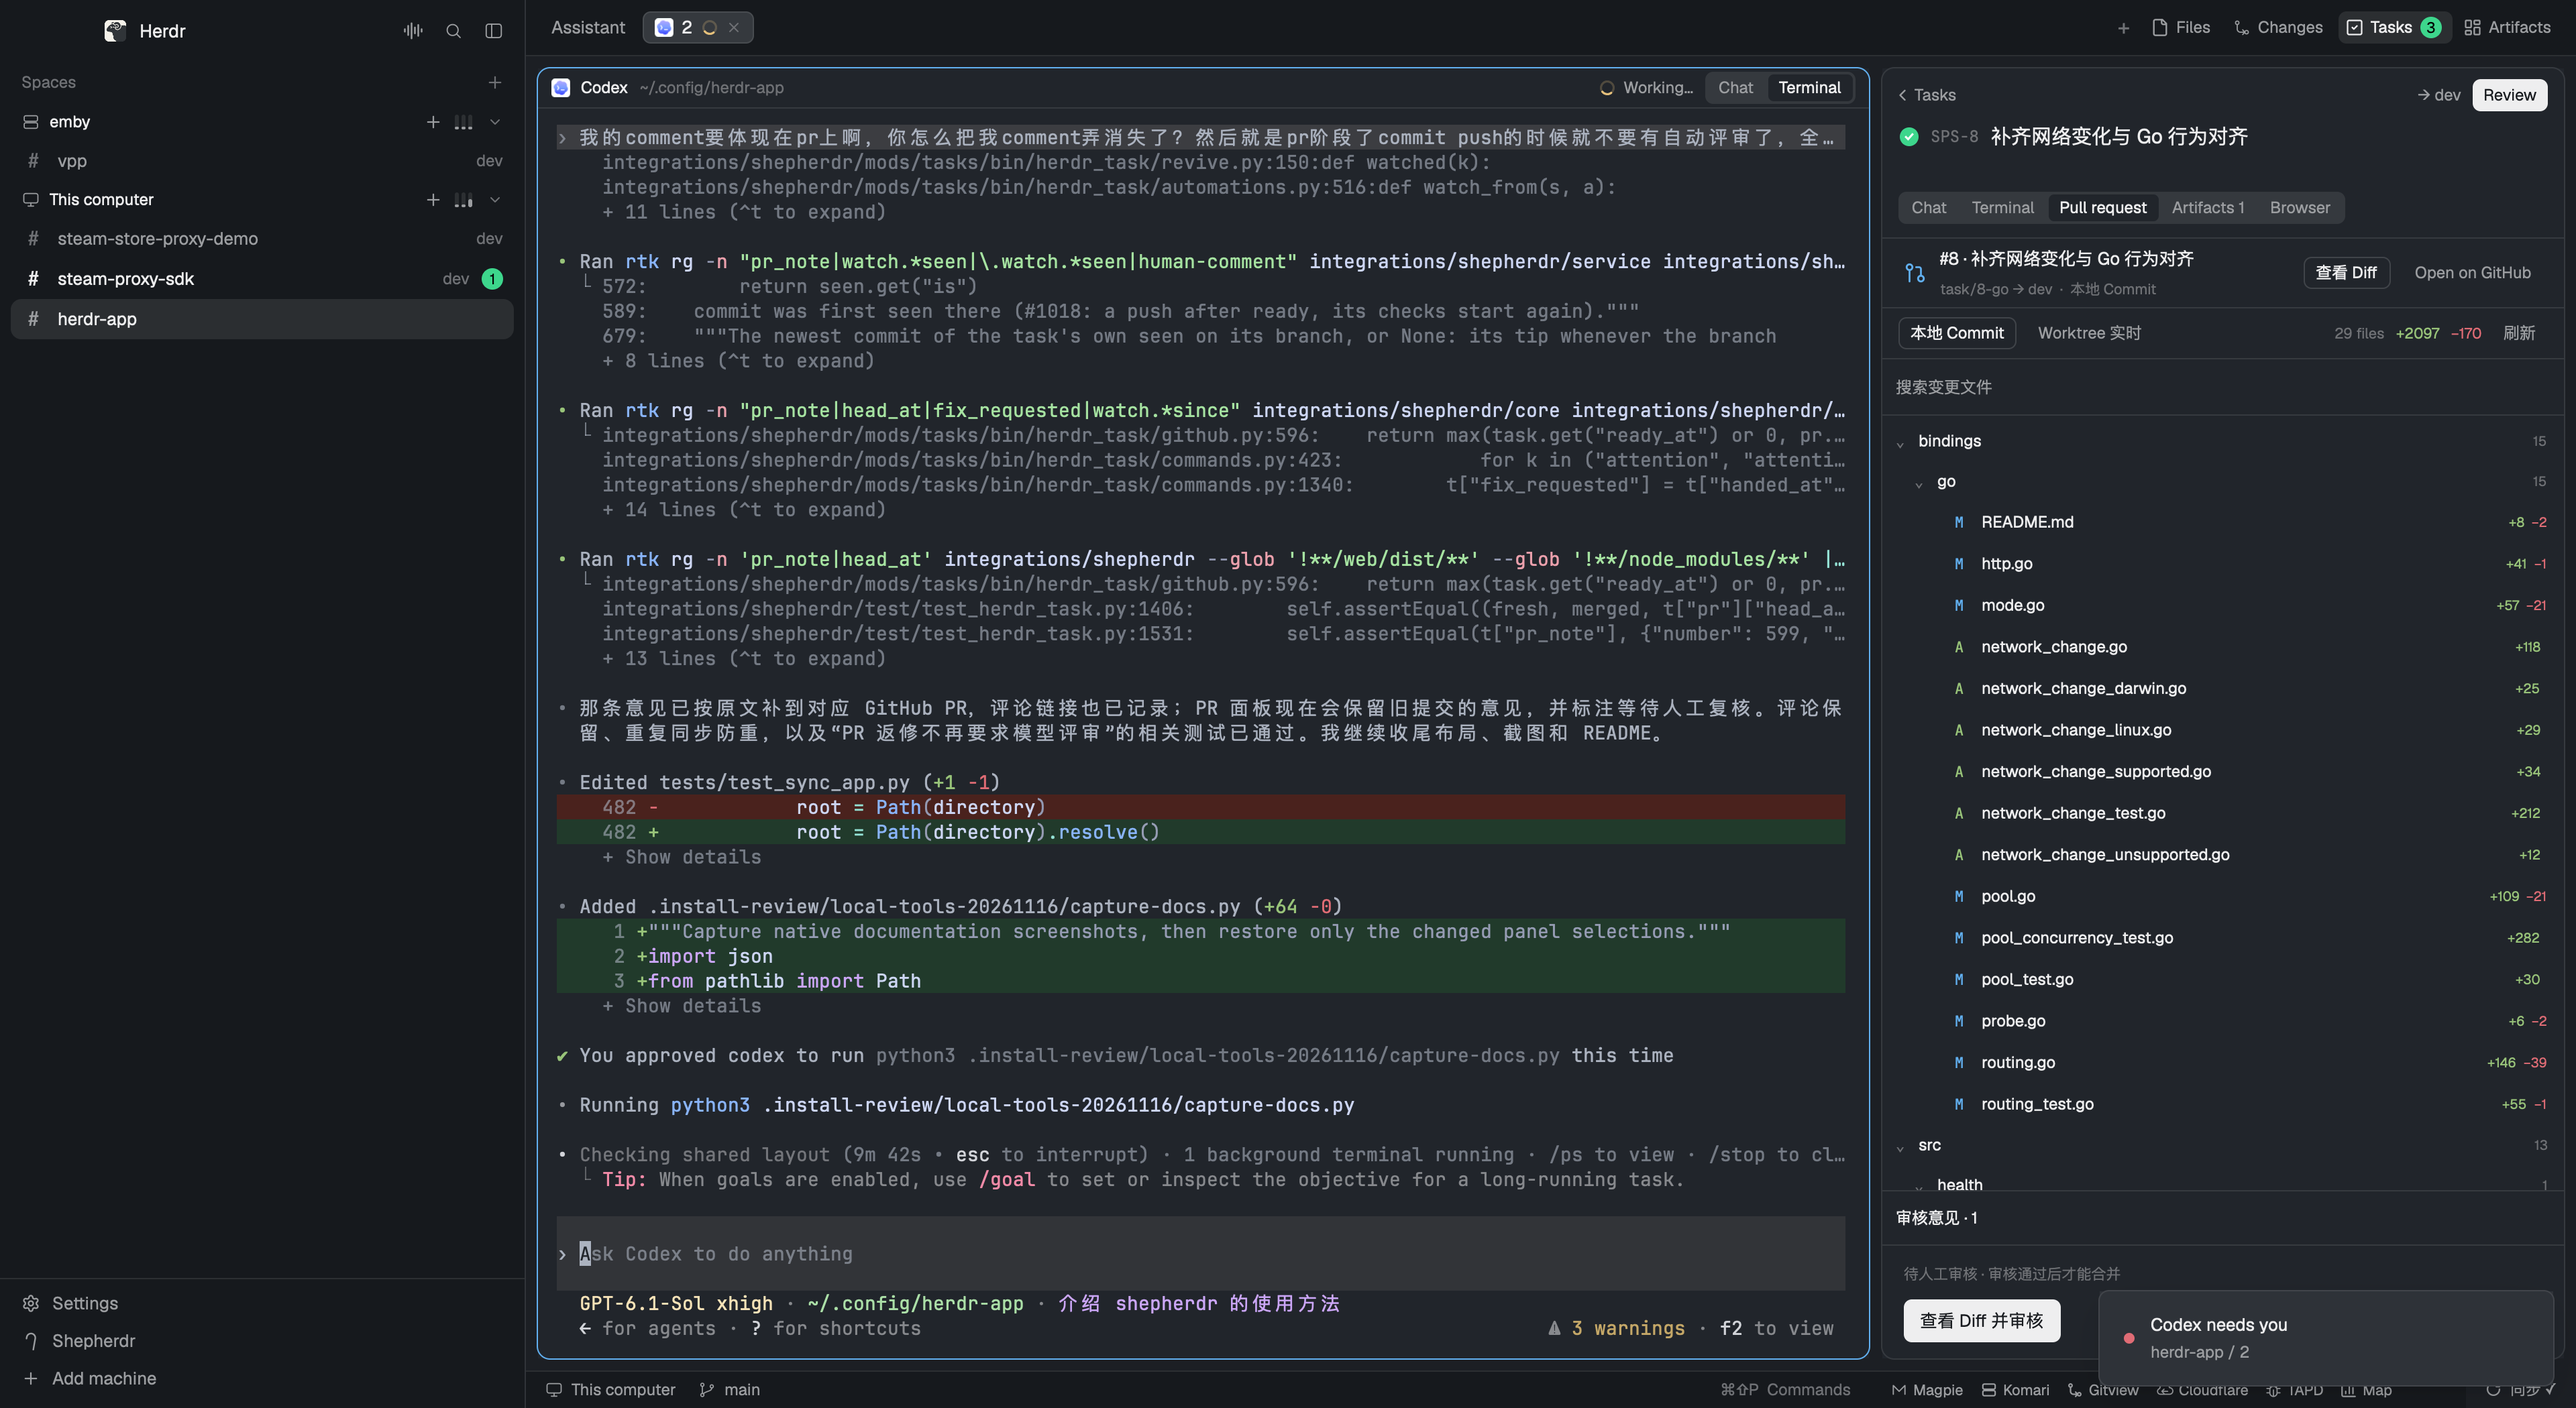
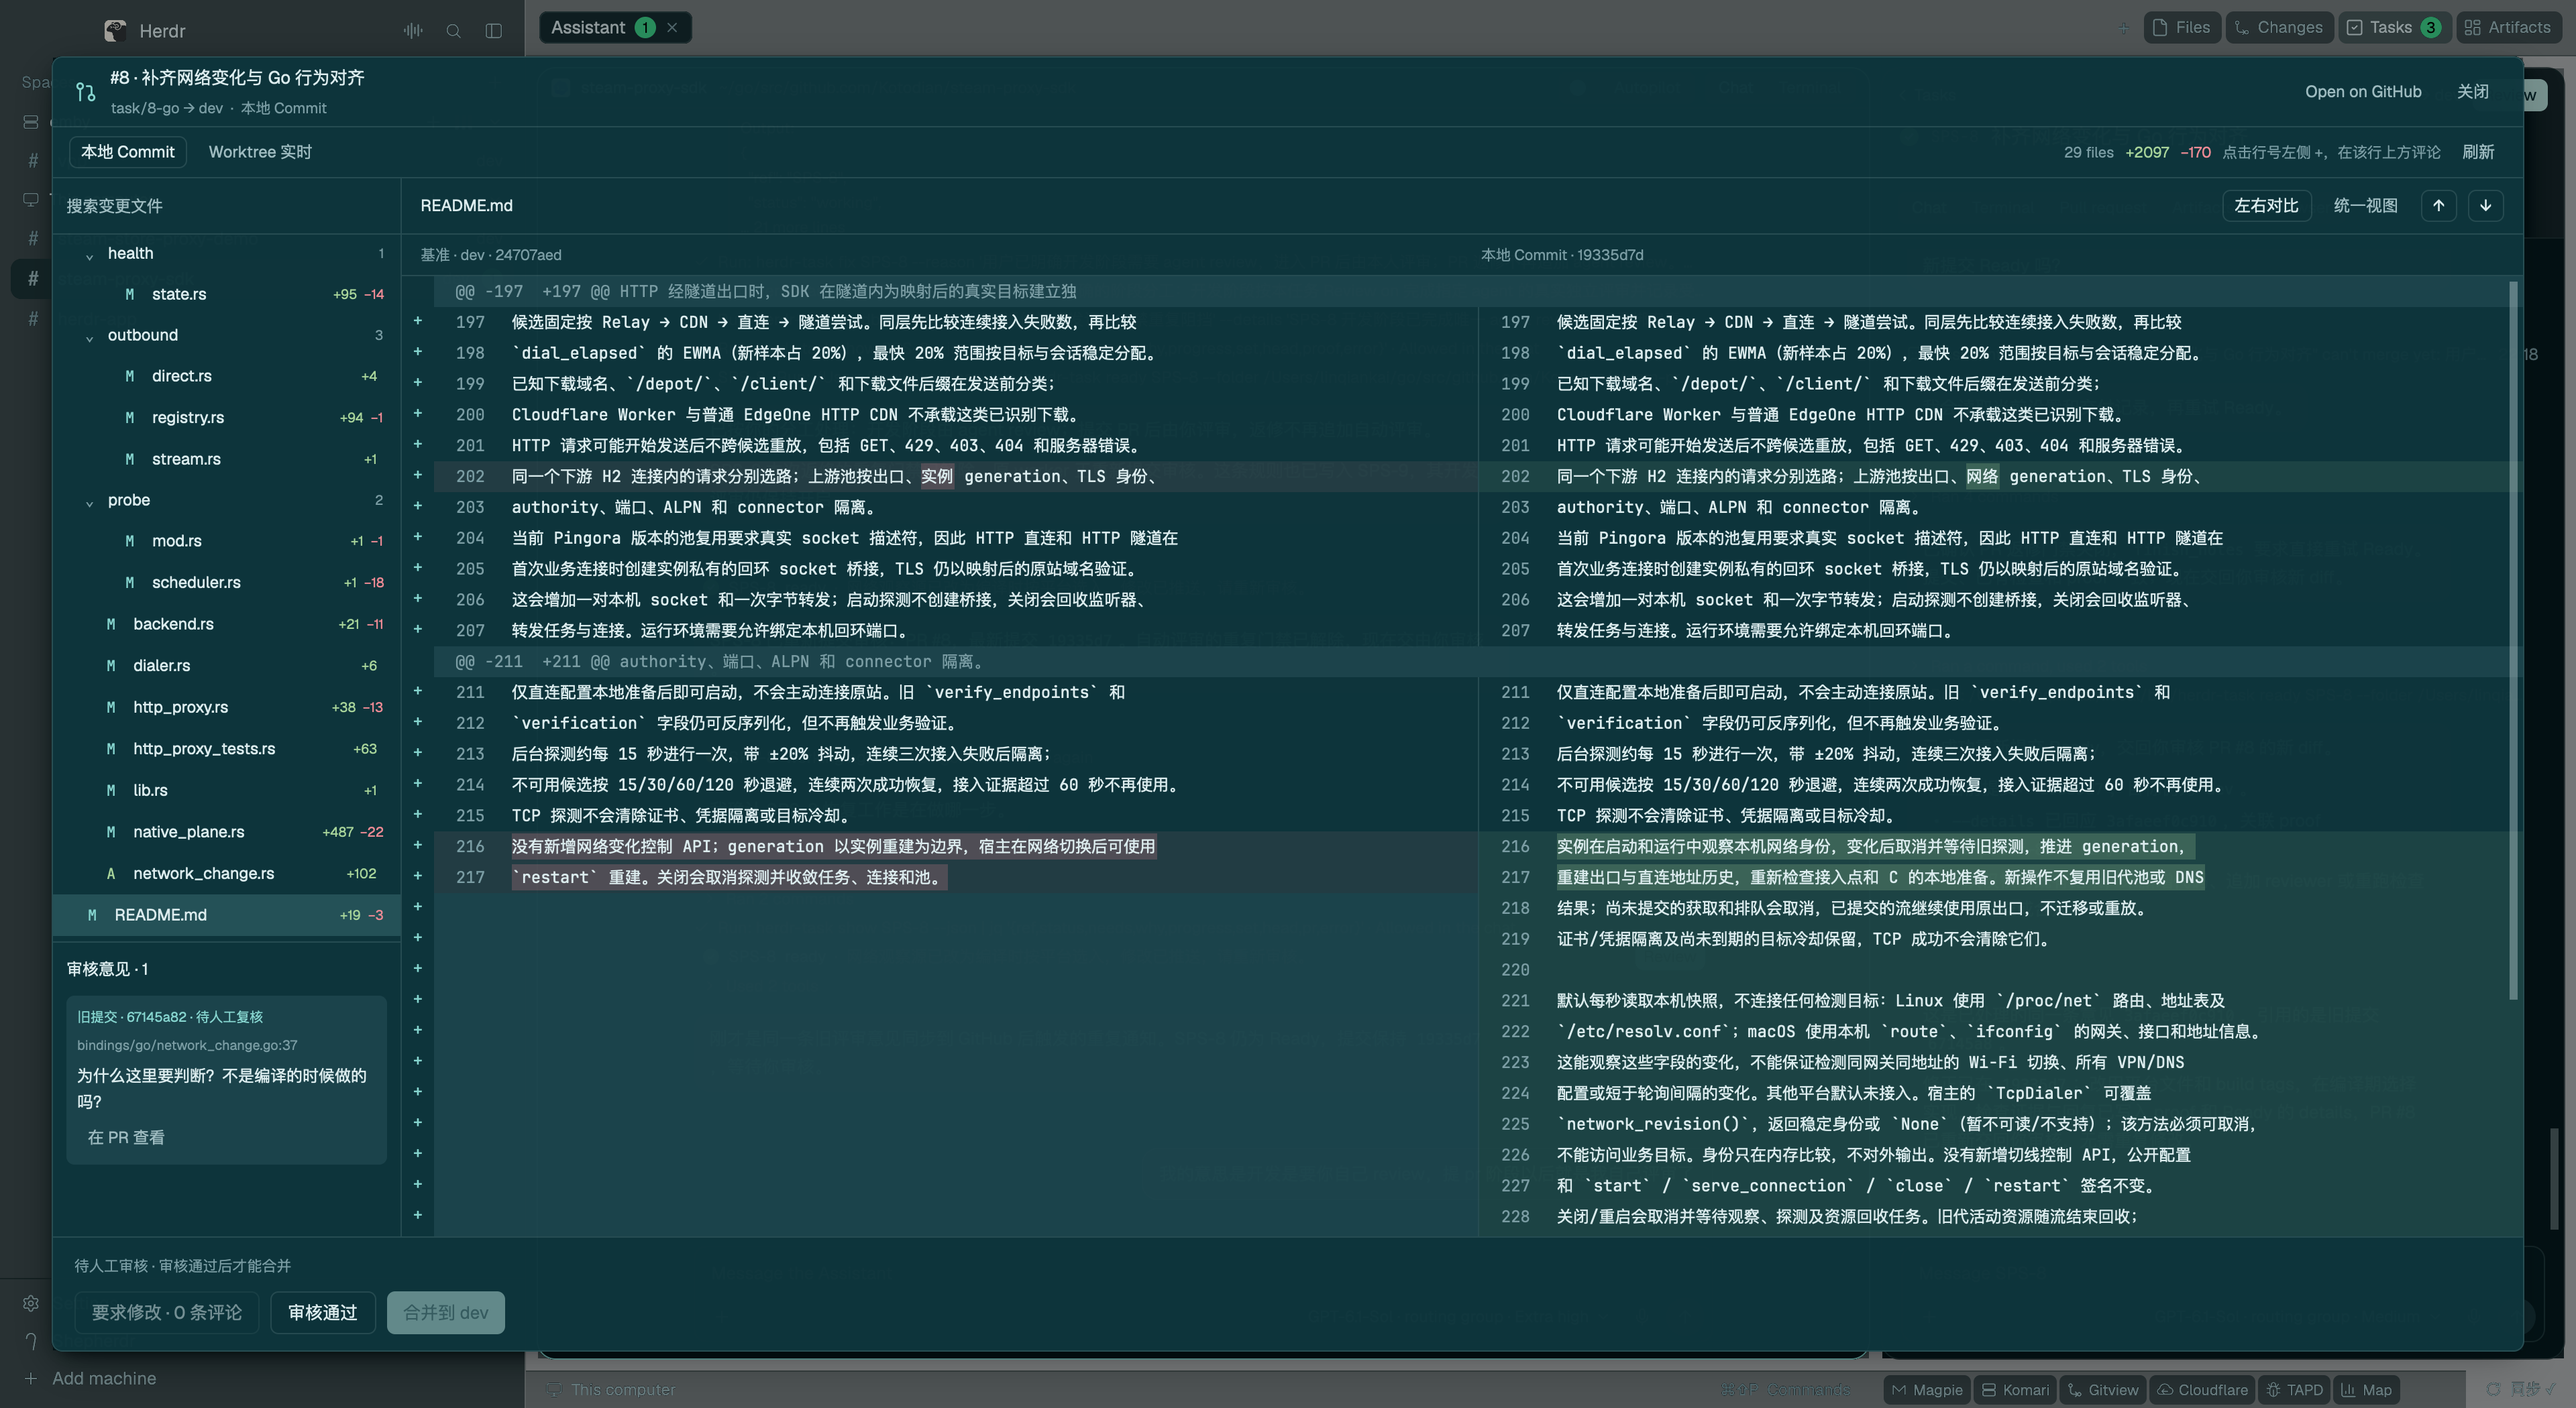
chore(herdr): 同步应用配置

diff --git a/README.md b/README.md
@@ -4,7 +4,7 @@
 
 界面按参考图使用深青色毛玻璃效果：半透明底配合原生窗口模糊、半透明侧栏和圆角面板，背后内容呈现模糊轮廓，文字和代码保持清晰。配色和透明度保存在 `layouts/shepherdr.json`，随配置同步。
 
-Kanso layout 已移除，工具已接入 Shepherdr。下面的截图来自实际运行的原生界面。
+Kanso layout 已移除，工具已接入 Shepherdr。下面的截图均来自实际运行的毛玻璃原生界面，主工作区统一使用 **Chat 模式**。
 
 ![工作区与工具栏](docs/screenshots/01-workspace.png)
 
